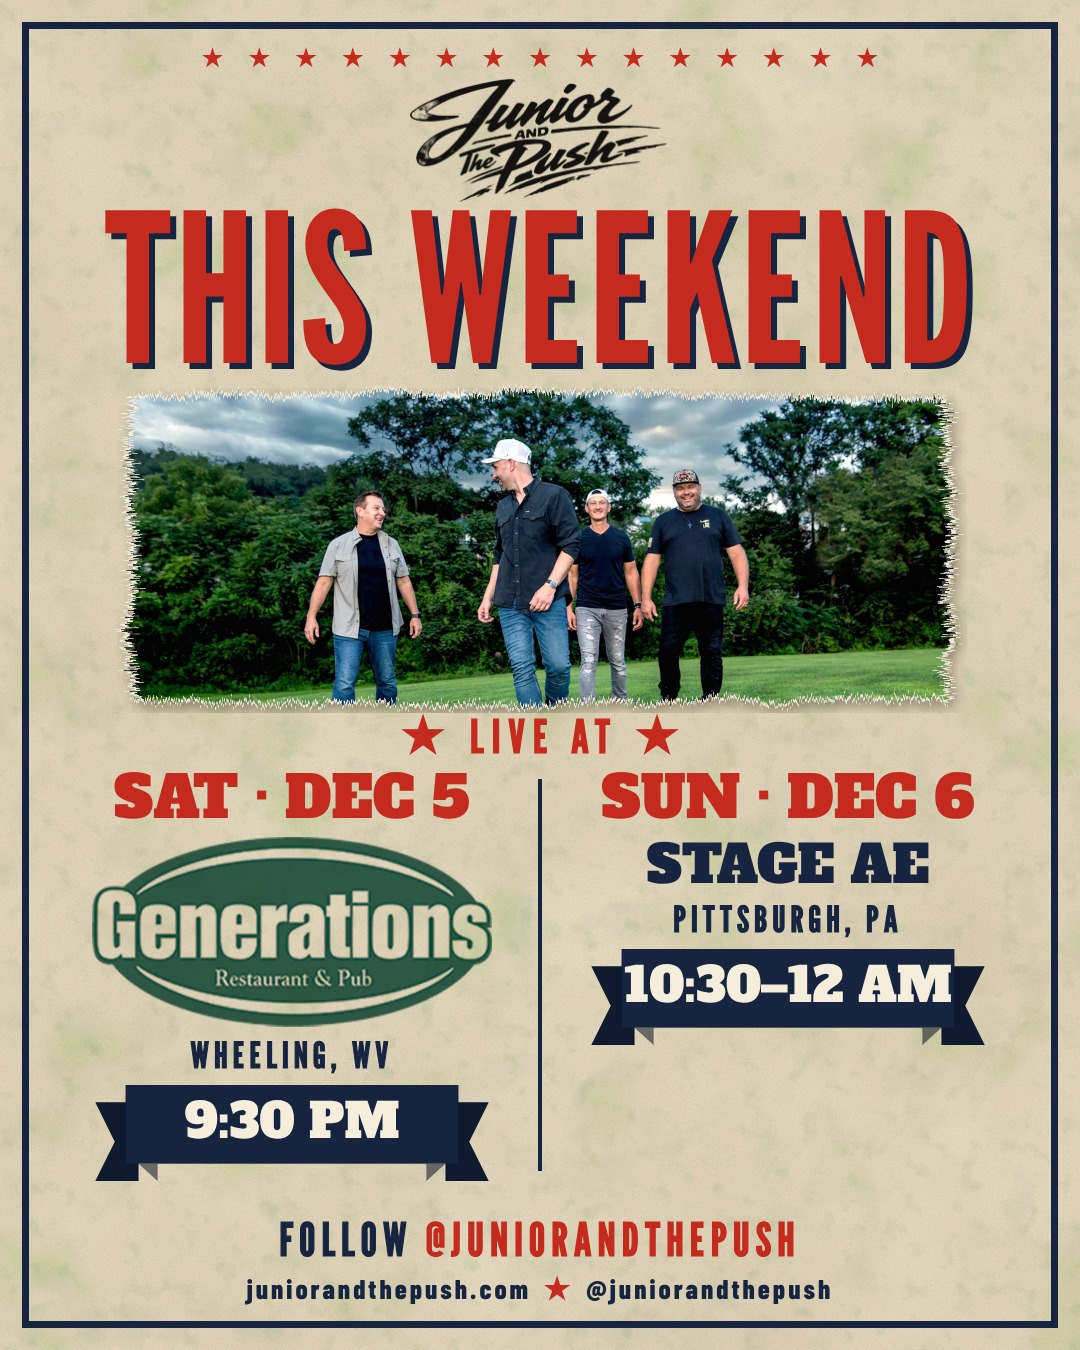
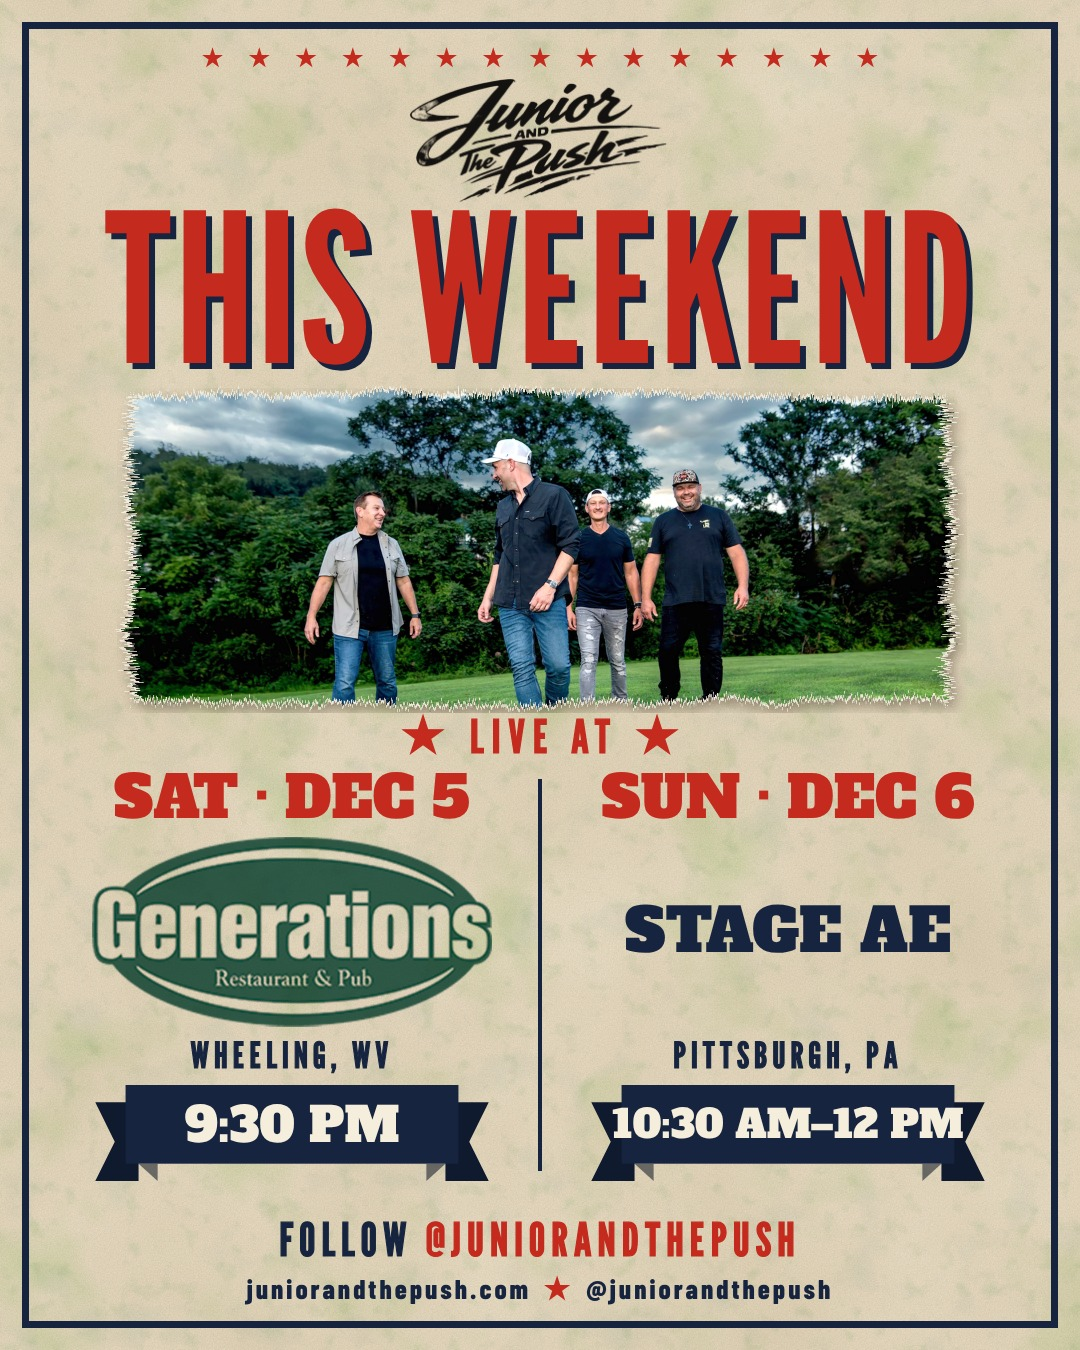
bold.py: align multi-show columns (fixed venue slot), proper AM/PM time ranges, auto-fit ribbon times
Claude-Session: https://claude.ai/code/session_015uHhmCsPoAdDiTAzBBZv4C

Changed region(s): [[0.55, 0.6222, 0.9167, 0.9022], [0.1528, 0.8089, 0.3667, 0.8711]]

diff --git a/kit/bold.py b/kit/bold.py
@@ -19,6 +19,16 @@ ACTS = {
                  rib='#16243F', gold='#D99A1E', handle='@juniorguthriemusic', site='juniorguthrie.com'),
 }
 
+def trange(d, end=None):
+    """'7–10 PM', or '10:30 AM–12 PM' when the show crosses noon/midnight."""
+    st = d.strftime('%-I:%M').replace(':00', '')
+    if not end: return f"{st} {d.strftime('%p')}"
+    eh, _, em = str(end).partition(':'); eh = int(eh) % 12; em = int(em or 0)
+    e = d.replace(minute=em, hour=eh)
+    while e <= d: e += datetime.timedelta(hours=12)
+    en = e.strftime('%-I:%M').replace(':00', '')
+    return f"{st}–{en} {e.strftime('%p')}" if e.strftime('%p') == d.strftime('%p') else f"{st} {d.strftime('%p')}–{en} {e.strftime('%p')}"
+
 def ribbon_svg(w, h, face, tail):
     """Hatch-style banner: flat face, folded tails with V notches. Pure shapes, no gradients."""
     t = h * .55; d = h * .22  # tail length, fold drop
@@ -38,8 +48,7 @@ def html(s):
     head = (s.get('headline') or ribbon_text(s['step'], dt.hour))
     words = head.split()
     head_html = head; two = False
-    t1 = dt.strftime('%-I:%M').replace(':00', '')
-    tstr = (t1 + ('–' + s['end'] if s.get('end') else '') + ' ' + dt.strftime('%p'))
+    tstr = trange(dt, s.get('end'))
     town, st = (s['town'].split(',') + [''])[:2]; st = st.strip().upper()
     place = f"{town.strip().upper()}, {STATES.get(st, st)}"
     photo = s.get('photo') or a['photo']
@@ -56,7 +65,7 @@ def html(s):
         cols = []
         for sh in s['shows']:
             d2 = datetime.datetime.strptime(sh['date'] + ' ' + sh['time'], '%Y-%m-%d %H:%M')
-            t2 = d2.strftime('%-I:%M').replace(':00', '') + ('–' + sh['end'] if sh.get('end') else '') + ' ' + d2.strftime('%p')
+            t2 = trange(d2, sh.get('end'))
             l2 = sh.get('venue_logo'); f2 = 'mix-blend-mode:multiply'
             if l2 and a.get('dark'):
                 alt = l2.replace('.png', '-white.png')
@@ -64,8 +73,8 @@ def html(s):
                 else: f2 = 'filter:invert(1) grayscale(1) brightness(.9)'
             v2 = f"<img class='mlogo' style='{f2}' src='{uri(l2)}'>" if l2 else f"<div class='mname'>{sh['venue'].upper()}</div>"
             tw, st2 = (sh['town'].split(',') + [''])[:2]
-            cols.append(f"<div class='mcol'><div class='mday'>{d2.strftime('%a').upper()} &middot; {d2.strftime('%b').upper()} {d2.day}</div>{v2}"
-                        f"<div class='mtown'>{tw.strip().upper()}, {st2.strip().upper()}</div><div class='mrib'><span>{t2}</span></div></div>")
+            cols.append(f"<div class='mcol'><div class='mday'>{d2.strftime('%a').upper()} &middot; {d2.strftime('%b').upper()} {d2.day}</div><div class='mv'>{v2}</div>"
+                        f"<div class='mtown'>{tw.strip().upper()}, {st2.strip().upper()}</div><div class='mrib'><span style='font-size:{min(48, int(330 / (len(t2) * .6)))}px'>{t2}</span></div></div>")
         multi = f"<div class='at'>&#9733; LIVE AT &#9733;</div><div class='multi'>{'<div class=msep></div>'.join(cols)}</div>" + \
                 (f"<div class='follow'>FOLLOW <b>{s['follow']}</b></div>" if s.get('follow') else '')
     bg_uri, fg_uri, (pw, ph) = frame_photo(photo, 1000, ph, s.get('frac', a['frac']), 'torn')
@@ -118,10 +127,11 @@ body{{width:{W}px;height:{H}px;background:{a.get('paper', PAPER)};position:relat
 .mcol{{width:440px;display:flex;flex-direction:column;align-items:center}}
 .msep{{width:0;border-left:4px solid {a['ink']};margin:10px 0}}
 .mday{{font:58px/1 slab;color:{a['hot']};white-space:nowrap}}
-.mlogo{{margin-top:10px;height:{190 if not story else 260}px;max-width:420px;object-fit:contain}}
-.mname{{margin-top:12px;font:52px/1 slab;white-space:nowrap}}
+.mv{{margin-top:10px;height:{190 if not story else 260}px;display:flex;align-items:center;justify-content:center}}
+.mlogo{{height:100%;max-width:420px;object-fit:contain}}
+.mname{{font:60px/1.05 slab;text-align:center}}
 .mtown{{margin-top:10px;font:36px/1 goth;letter-spacing:5px;white-space:nowrap;-webkit-text-stroke:1.1px currentColor}}
-.mrib{{margin-top:12px;width:400px;height:96px;background:url("{ribm}") no-repeat;background-size:100% 100%;display:flex;justify-content:center;padding-top:12px}}
+.mrib{{margin-top:12px;width:400px;height:96px;background:url("{ribm}") no-repeat;background-size:100% 100%;display:flex;justify-content:center;align-items:center;padding-bottom:16px}}
 .mrib span{{font:48px/1 slab;color:{a.get('ribtext', '#F6EEDC')};white-space:nowrap}}
 .follow{{margin-top:auto;padding-top:14px;font:46px/1 goth;letter-spacing:6px;white-space:nowrap;-webkit-text-stroke:1.2px currentColor}}
 .follow b{{color:{a['hot']};font-weight:400}}
